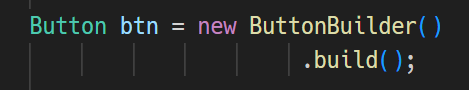
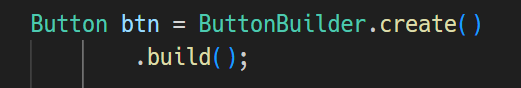
doc: update for v1.1.0

diff --git a/README.md b/README.md
@@ -1,8 +1,8 @@
 # JavaFX Builder Class Generator
 
-This VSCode extension provides a builder class generator for JavaFX projects.
+This VSCode extension provides a code generator for creating builder classes in JavaFX projects.
 
-You can generate builder classes for various classes included in the `javafx.scene.*` packages, such as `Button` and `VBox` ,
+You can generate builder classes for various types included in the `javafx.scene.*` packages, such as `Button` and `VBox`,
 allowing you to create complex instances more compactly.
 
 # How to Use
@@ -11,6 +11,8 @@ allowing you to create complex instances more compactly.
 - The class must be from the `javafx.scene.*` packages.
 - The class name must be a canonical name or resolved through an import.
 - A builder class cannot be generated if the class has no "set-" methods.
+- Ensure that the expression is grammatically correct, including the use of a semicolon at the end of the statement. If you perform this action, the "Generate Builder Class" Code Lens will appear.
+
 
 <img src="images/builder_01.png" width="300">
 
@@ -36,6 +38,41 @@ allowing you to create complex instances more compactly.
 
 <img src="images/builder_04.png" width="400">   
 
+# Example
+
+```java
+public VBoxBuilder children(Node... elements) { in.getChildren().setAll(elements); return this; }
+```
+
+<img src="images/example_01.png" width="500">
+
+<img src="images/example_02.png" width="200">
+
+## `children` method
+
+A builder class for a class that has a `getChildren` method includes a `children` method.
+
+Usage follows the example provided above.
+
+```java
+public VBoxBuilder children(Node... elements) { in.getChildren().setAll(elements); return this; }
+```
+
+## `apply` method
+
+All builder classes have an `apply` method. 
+You can pass a lambda that takes an instance of the original class as an argument to this method.
+
+Usage follows the example provided above.
+
+```java
+public VBoxBuilder apply(java.util.function.Consumer<VBox> func) {
+        func.accept((VBox) in);
+        return this;
+    }
+```
+
+In fact, everything can be accomplished with `apply`. The other methods in the builder class simply provide syntactic sugar for the original class's `set-` methods and the `getChildren` method.
 
 # Miscellaneous
 
@@ -43,6 +80,8 @@ allowing you to create complex instances more compactly.
 
 - The Java files must be located somewhere under the `src` directory, e.g., `src/main/java/com/example/FooController.java`
 - Install the "Language Support for Java(TM) by Red Hat" extension to enable the builder class generator.
+- A module-info.java file is required.
+- A class that extends `javafx.application.Application` is needed.
 
 ## Issues
 
@@ -52,6 +91,14 @@ allowing you to create complex instances more compactly.
 https://github.com/sosuisen/javafx-builder-class-generator/issues
 
 ## Release Notes
+
+### 1.1.0
+
+- Added `apply` method to the builder class.
+- Use `create` method to create a builder instance instead of using a constructor.
+- Added `children` method if the original class has a `getChildren` method.
+- The `create` method has parameters if the original constructor has parameters.
+- Added methods to set parameters indicated in the original constructor.
 
 ### 1.0.0
 
